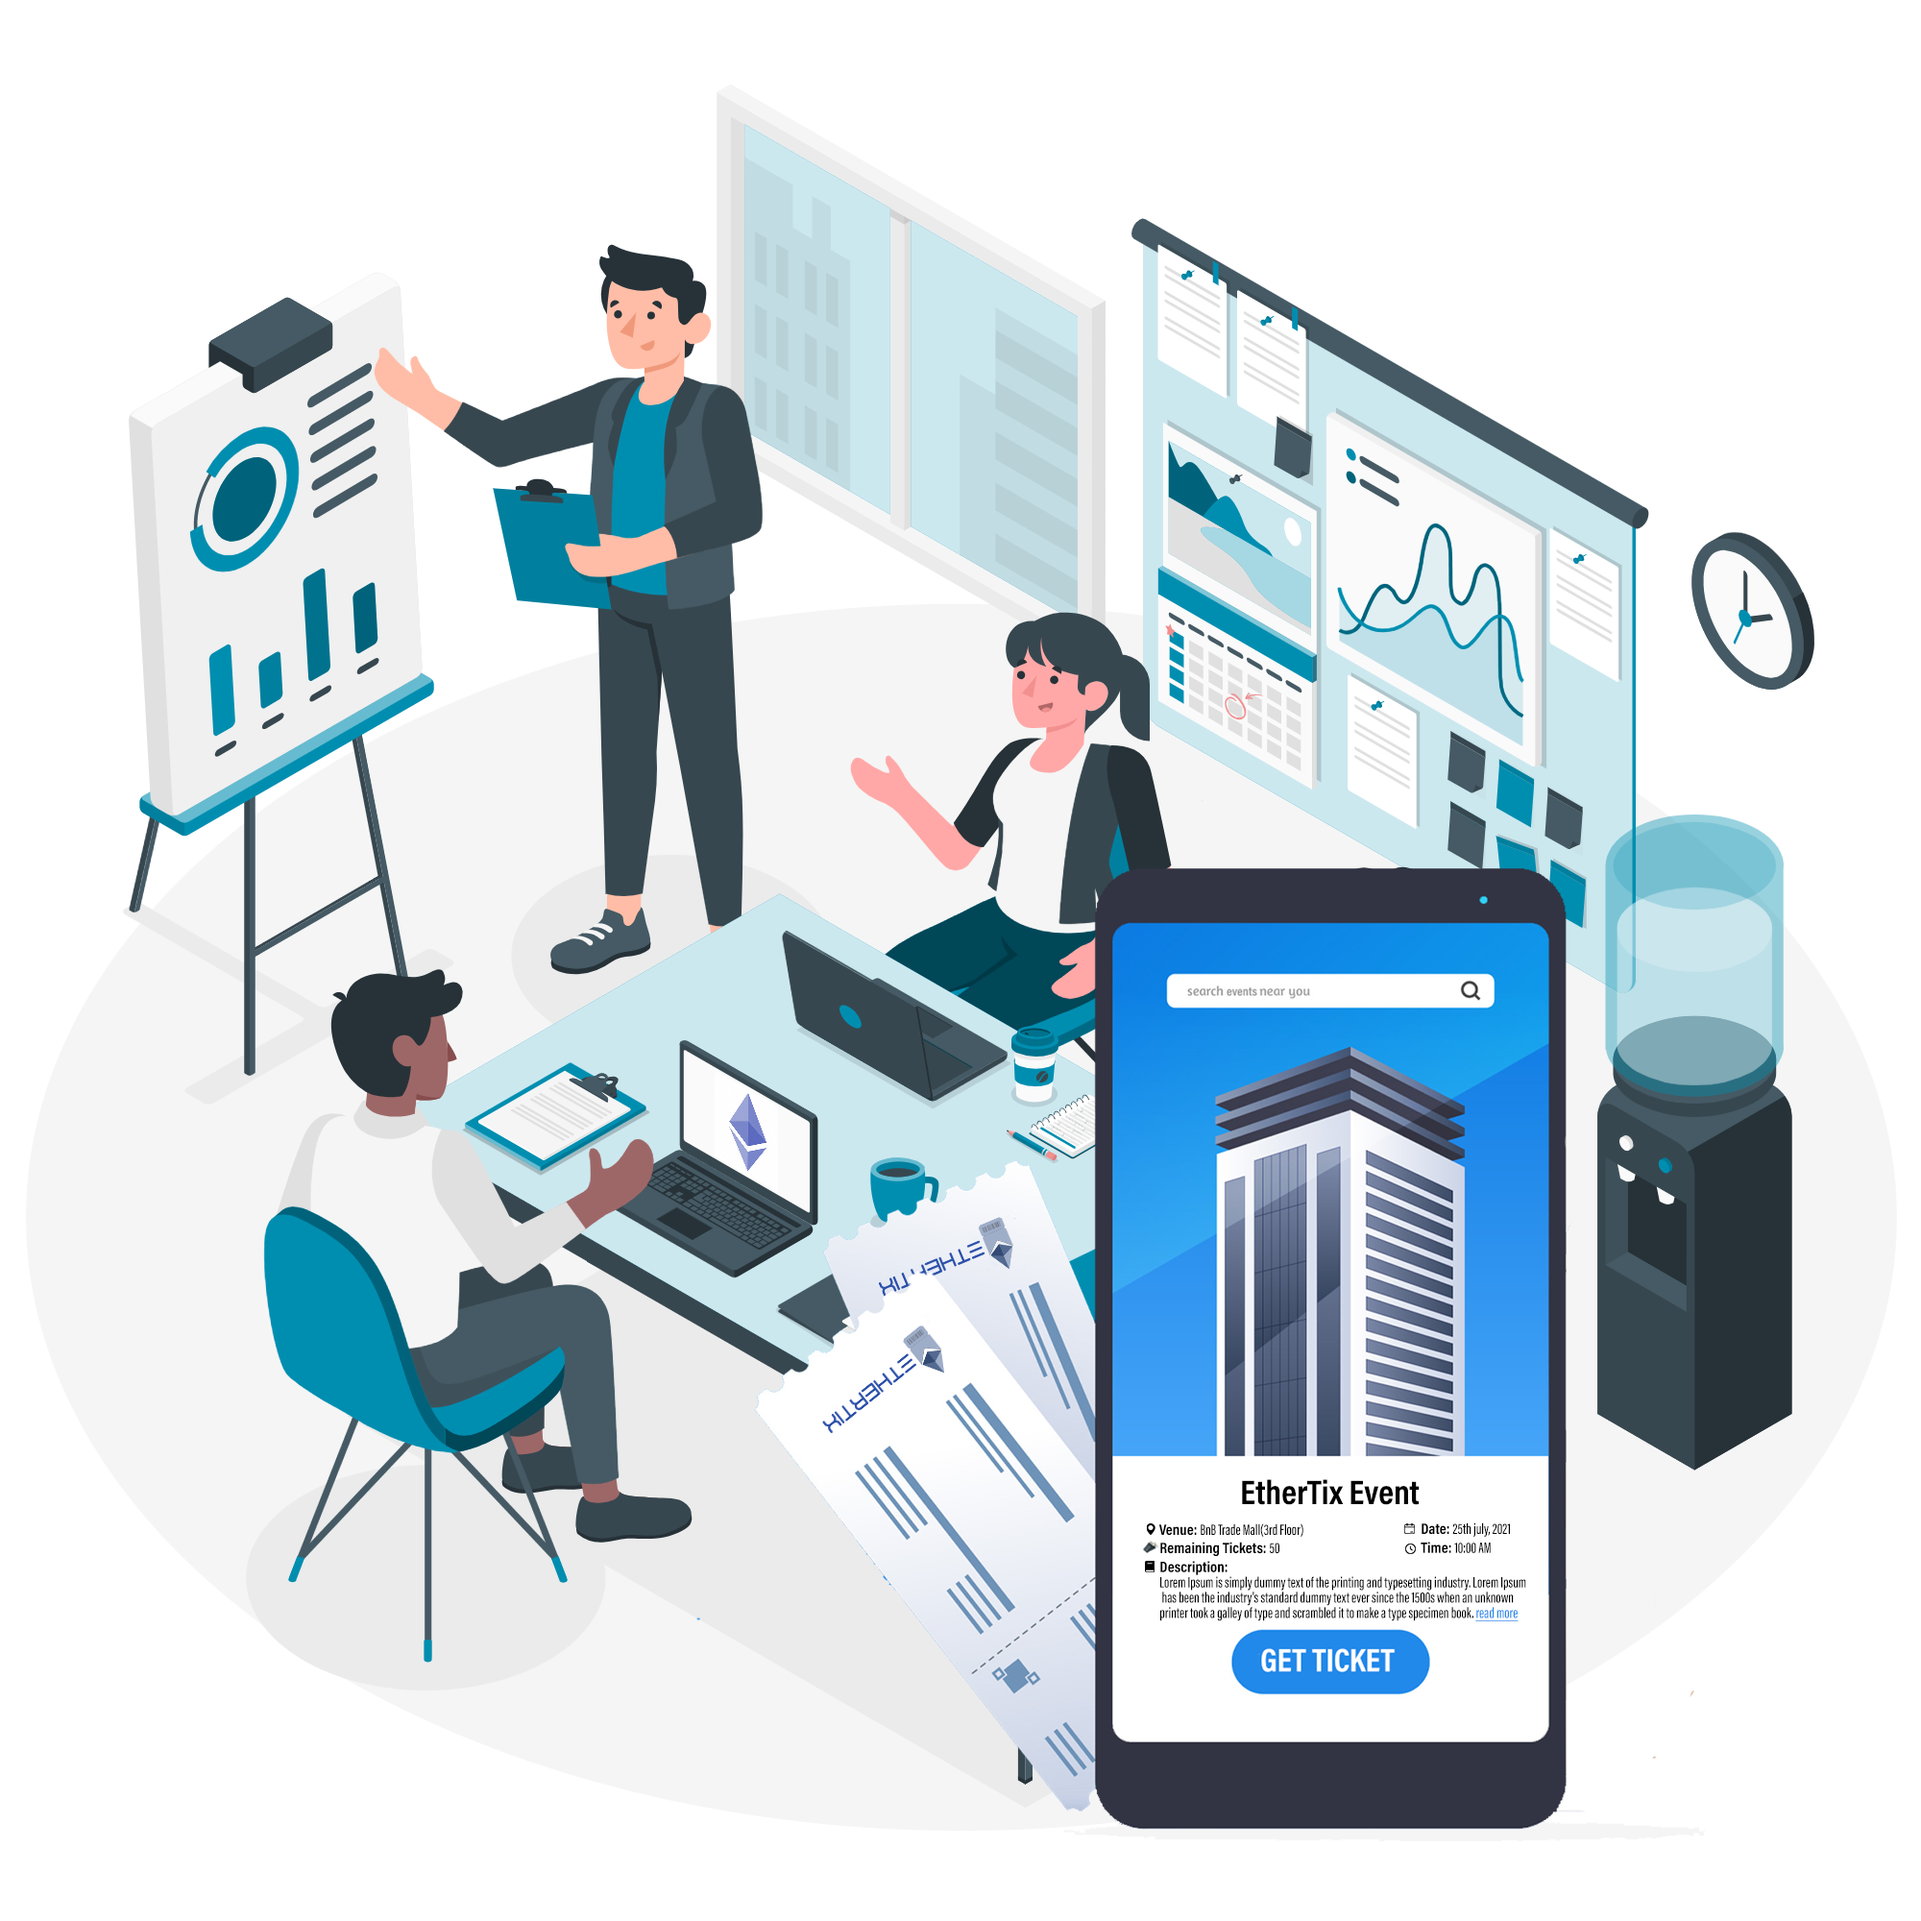
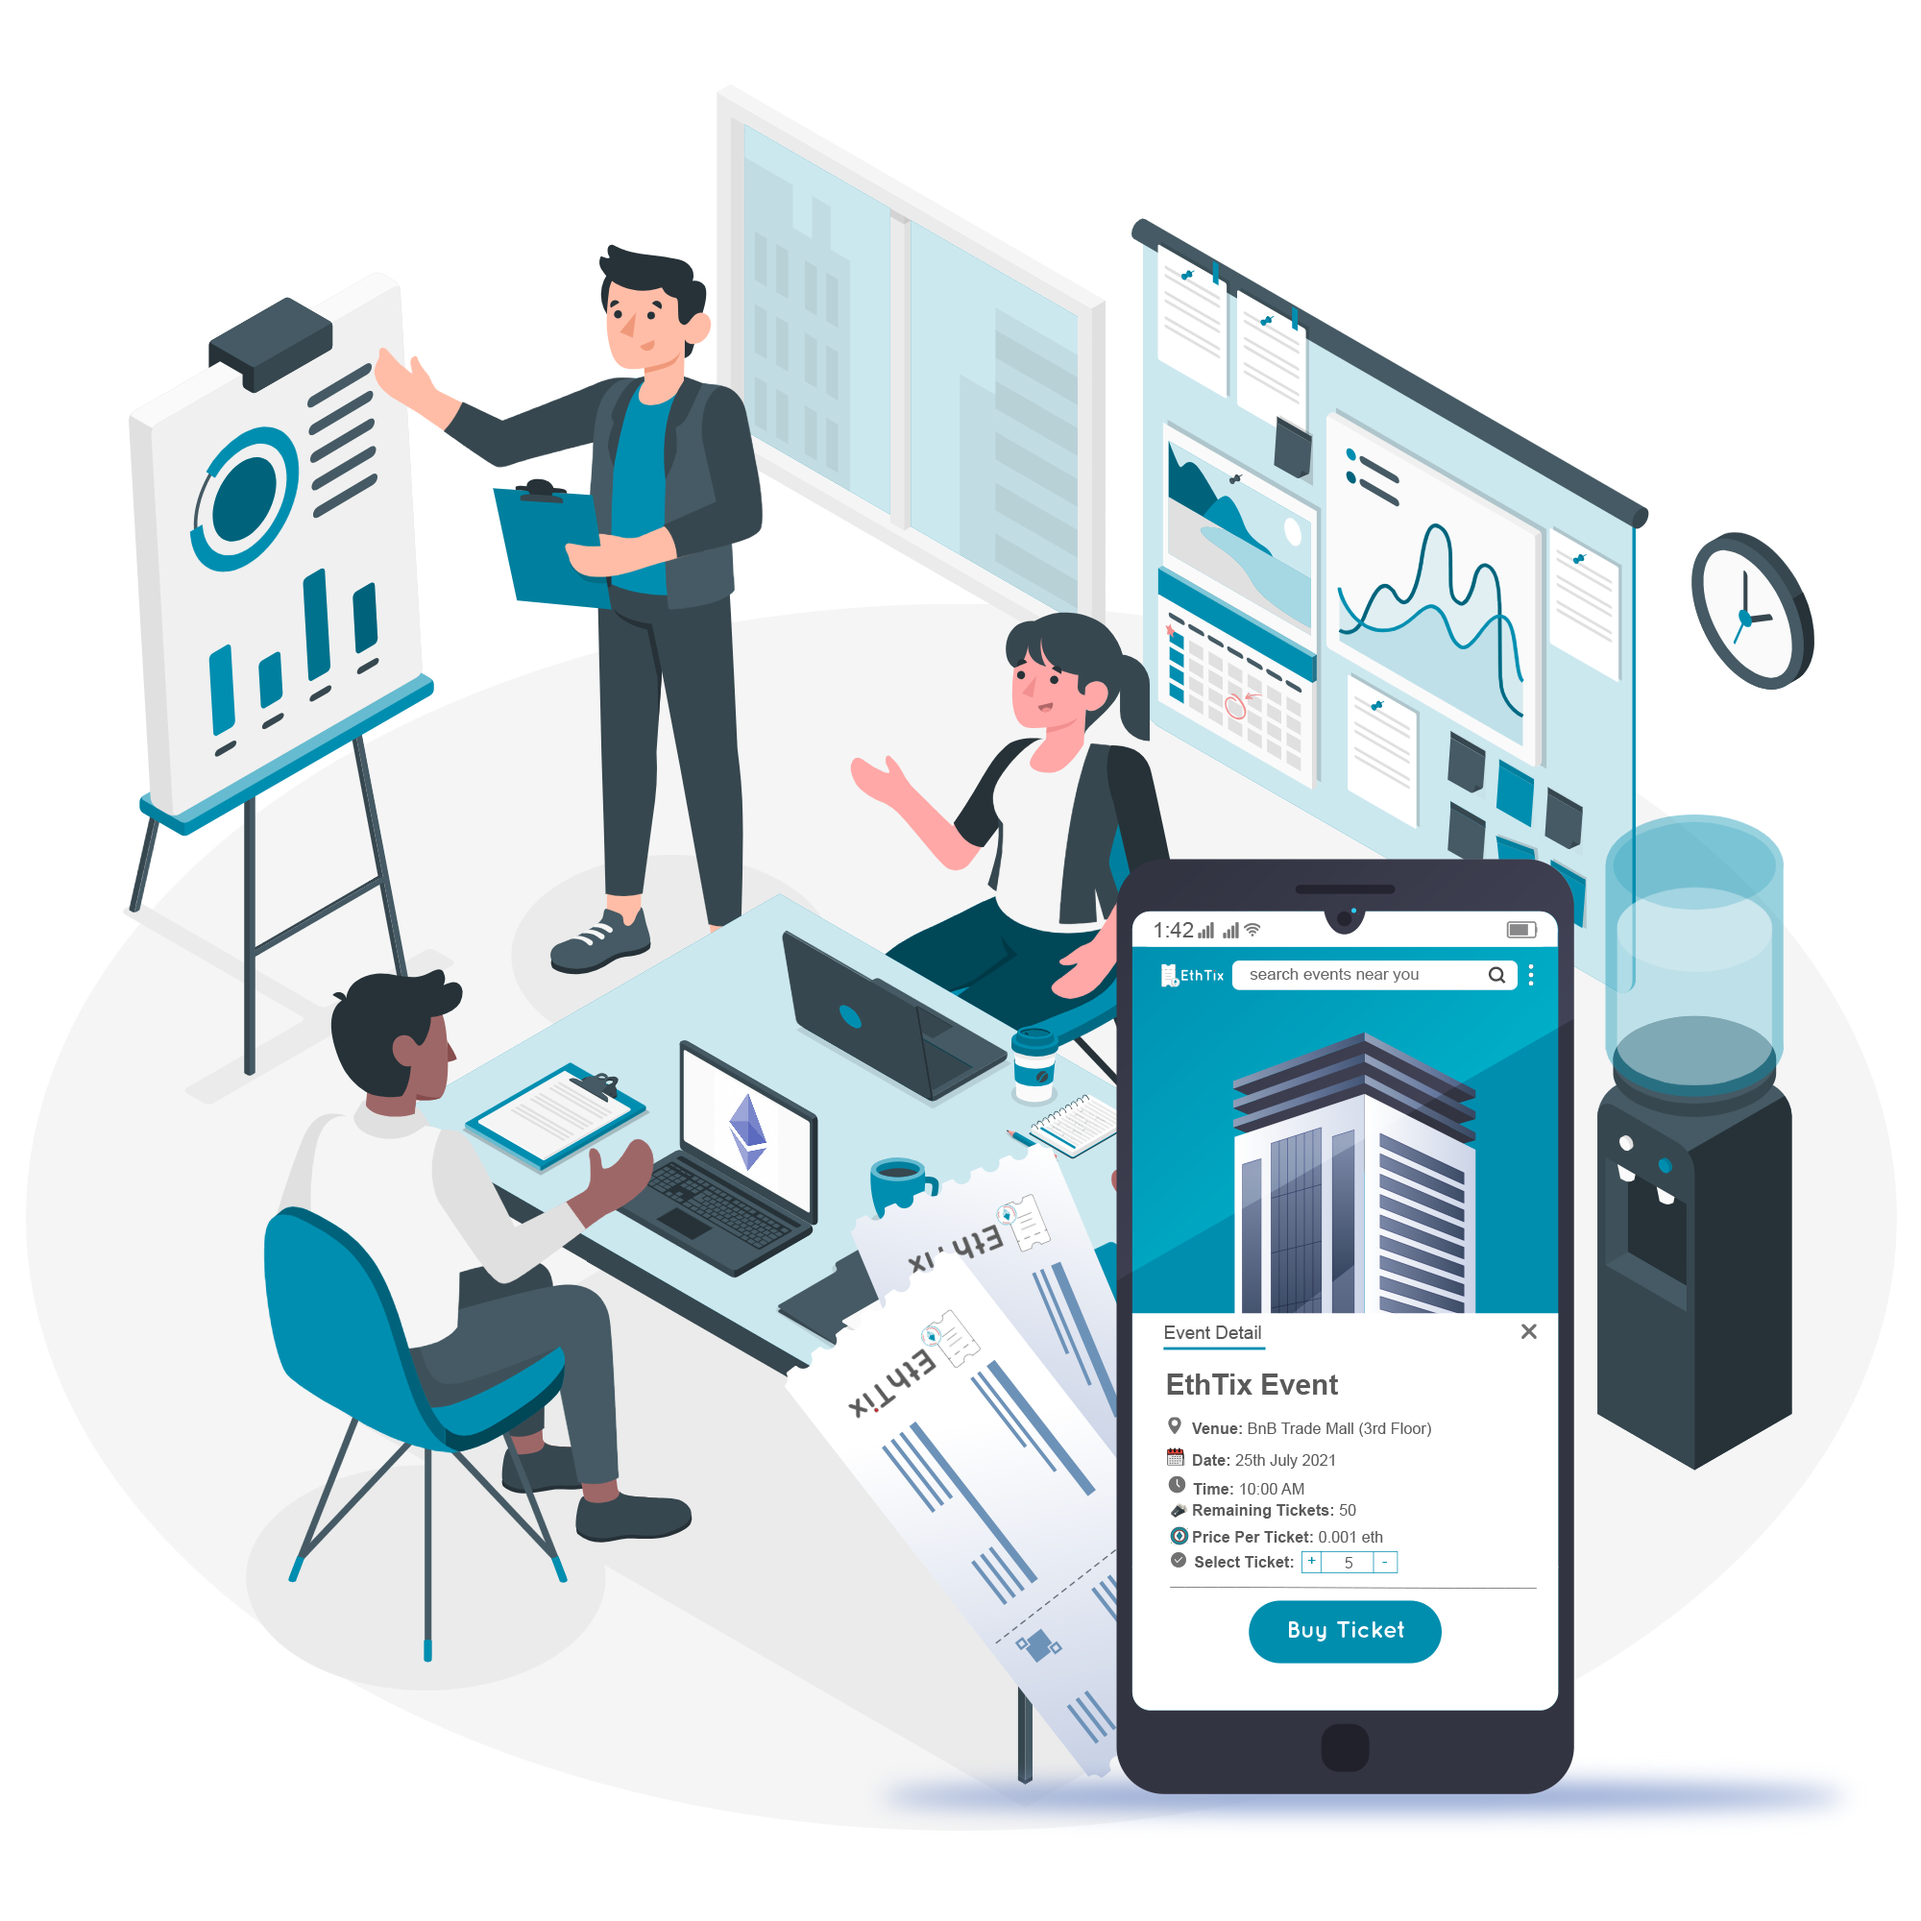
main image(changed mobile), popup not displayed after login successful, iagreeterms in eventorganizer,login or register page displayed according to user registered or not.

Changed region(s): [[0.434, 0.434, 0.961, 0.961]]

diff --git a/client/src/component/Login.jsx b/client/src/component/Login.jsx
@@ -10,7 +10,6 @@ const Login = ({ state }) => {
     isConnected,
     setConnected,
     setUserConnected,
-    isEventOrganizer,
     setEventOrganizer,
     account,
     template,
@@ -26,6 +25,13 @@ const Login = ({ state }) => {
       try {
         if ((await account) !== "Not connected") {
           setConnected(true);
+          //check if user is registered or not and show the login or register page accordingly.
+          const userregistered = await userContract.isRegisteredUser(account);
+          if (userregistered) {
+            setLogin(true);
+          } else {
+            setLogin(false);
+          }
         } else {
           setConnected(false);
         }
@@ -63,7 +69,6 @@ const Login = ({ state }) => {
         //Write your logic here when user clicks on login or register button
         //user validation logic
         // fetch if user is registered or not, eventorganizer or not from contract and set it's state.
-        // setEventOrganizer(true);
 
         const userAddress = account;
         if (!username.trim()) {
@@ -111,16 +116,15 @@ const Login = ({ state }) => {
               }
               setUserConnected(true); // Set isUserConnected to true when user gets logged in
               localStorage.setItem("isUserConnected", true);
-              if (isEventOrganizer) {
-                //check if user is event organizer or not.
-                const eventorgCID =
-                  await eventOrganizerContract.getOrganizerCID(userAddress);
-                // console.log(eventorgCID);
-                if (eventorgCID !== "") {
-                  setEventOrganizer(true);
-                } else {
-                  setEventOrganizer(false);
-                }
+              //check if user is event organizer or not.
+              const eventorgCID = await eventOrganizerContract.getOrganizerCID(
+                userAddress
+              );
+              // console.log(eventorgCID);
+              if (eventorgCID !== "") {
+                setEventOrganizer(true);
+              } else {
+                setEventOrganizer(false);
               }
             } else {
               toast.error(

diff --git a/client/src/component/EventOrganizer.jsx b/client/src/component/EventOrganizer.jsx
@@ -12,6 +12,7 @@ const EventOrganizer = ({ state }) => {
   const [organizationLocation, setOrganizationLocation] = useState("");
   const [organizationEmail, setOrganizationEmail] = useState("");
   const { signer, userContract, eventOrganizerContract } = state;
+  const [agreetermsconditions, setagreetermsconditions] = useState(false);
   const navigate = useNavigate(); //to redirect to another page
   //console.log(state);
   const buttonPressed = () => {
@@ -53,7 +54,7 @@ const EventOrganizer = ({ state }) => {
         console.log("Contract not deployed");
         return;
       }
-      const userregistered = await userContract.isUsers(userAddress);
+      const userregistered = await userContract.isRegisteredUser(userAddress);
       // console.log(userregistered);
       // console.log(ipfsCid);
       // console.log(eventOrganizerContract);
@@ -151,10 +152,26 @@ const EventOrganizer = ({ state }) => {
                     onChange={(e) => setOrganizationEmail(e.target.value)}
                   />
                 </div>
+                <div className="form-check">
+                  <input
+                    className="form-check-input"
+                    type="checkbox"
+                    value={agreetermsconditions}
+                    id="flexCheckDefault"
+                    onChange={(e) => setagreetermsconditions(e.target.checked)}
+                  />
+                  <label
+                    className="form-check-label"
+                    htmlFor="flexCheckDefault"
+                  >
+                    I agree to the terms and conditions
+                  </label>
+                </div>
                 <button
                   type="submit"
                   className="btn btn-danger"
                   onClick={handleEventOrganizer}
+                  disabled={!agreetermsconditions}
                 >
                   Submit
                 </button>

diff --git a/client/src/component/AppContext.jsx b/client/src/component/AppContext.jsx
@@ -117,17 +117,15 @@ const AppProvider = ({ children, template, account, state }) => {
           if (userAddress === userAddresss && username === usernamee) {
             setUserConnected(true); // Set isUserConnected to true when user gets logged in
             localStorage.setItem("isUserConnected", true);
-            if (isEventOrganizer) {
-              //check if user is event organizer or not.
-              const eventorgCID = await eventOrganizerContract.getOrganizerCID(
-                userAddress
-              );
-              // console.log(eventorgCID);
-              if (eventorgCID !== "") {
-                setEventOrganizer(true);
-              } else {
-                setEventOrganizer(false);
-              }
+            //check if user is event organizer or not.
+            const eventorgCID = await eventOrganizerContract.getOrganizerCID(
+              userAddress
+            );
+            // console.log(eventorgCID);
+            if (eventorgCID !== "") {
+              setEventOrganizer(true);
+            } else {
+              setEventOrganizer(false);
             }
           } else {
             toast.error(

diff --git a/client/src/component/Navbar.jsx b/client/src/component/Navbar.jsx
@@ -1,4 +1,4 @@
-import React, { useState } from "react";
+import React, { useState, useEffect } from "react";
 import { Link } from "react-router-dom";
 //Import etherTix logo
 import etherTixLogo from "../assets/images/logo/etherTixlogooff.png";
@@ -25,6 +25,13 @@ const Navbar = ({ state }) => {
   const [isPopupOpen, setPopupOpen] = useState(false);
   const [isNavbarOpen, setNavbarOpen] = useState(false);
   const { setConnected, account, isUserConnected } = useAppContext();
+
+  useEffect(() => {
+    if (isUserConnected) {
+      setPopupOpen(false);
+      document.body.classList.remove("popup-open"); // Allow scrolling
+    }
+  }, [isUserConnected]);
 
   const handleOpenPopup = () => {
     setPopupOpen(true);

diff --git a/client/src/component/Main.jsx b/client/src/component/Main.jsx
@@ -1,5 +1,6 @@
 import React, { useState } from "react";
-import mainimage from "../assets/images/work space1.png";
+// import mainimage from "../assets/images/work space1.png";
+import mainimage from "../assets/images/work anniversary2.png";
 import { Link } from "react-scroll";
 import { useNavigate } from "react-router-dom";
 import EventOrganizer from "./EventOrganizer";

diff --git a/client/src/component/Admin.jsx b/client/src/component/Admin.jsx
@@ -87,6 +87,13 @@ const Admin = ({ state }) => {
     };
   }, [navigate]);
 
+  useEffect(() => {
+    if (isUserConnected) {
+      setPopupOpen(false);
+      document.body.classList.remove("popup-open"); // Allow scrolling
+    }
+  }, [isUserConnected]);
+
   const handleToggleDropdown = () => {
     setDropdownOpen(!isDropdownOpen);
   };

diff --git a/client/src/assets/css/Main.css b/client/src/assets/css/Main.css
@@ -15,7 +15,7 @@
     rgba(255, 255, 255, 1) 0%,
     rgba(0, 142, 176, 1) 100%
   ); */
-  padding-top: 10%;
+  /* padding-top: 10%; */
   padding-bottom: 2%;
 }
 
